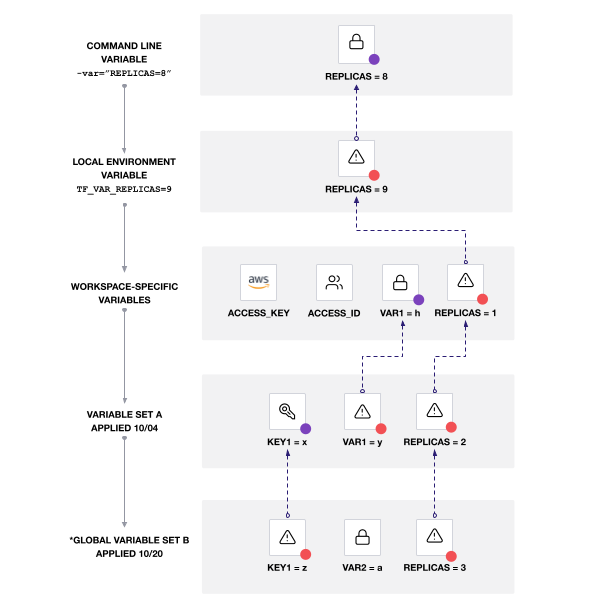
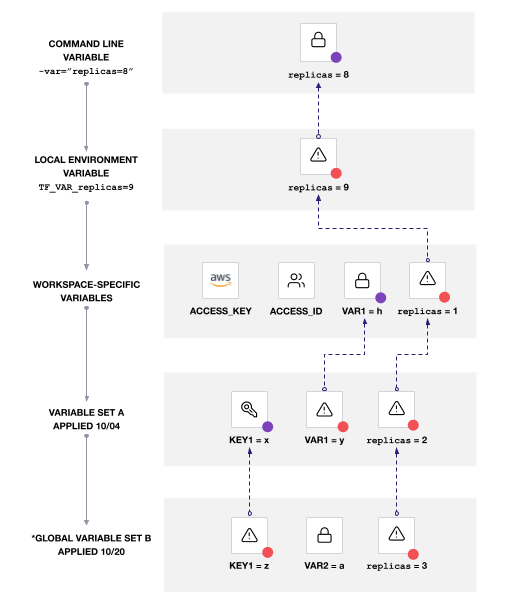
run-specific variable revisions

diff --git a/content/source/docs/cloud/workspaces/variables.html.md b/content/source/docs/cloud/workspaces/variables.html.md
@@ -9,7 +9,7 @@ description: "Terraform Cloud workspace variables let you customize configuratio
 
 Terraform Cloud workspace variables let you customize configurations, modify Terraform's behavior, and store information like provider credentials.
 
-You can set variables specifically for each workspace or you can create variable sets to reuse the same variables across multiple workspaces. For example, you could define a variable set of provider credentials and automatically apply it to all of the workspaces using that provider. Terraform Cloud applies workspace variables to all runs within that workspace. Additionally, you can set variable values for a particular run on the command line [using run-specific variables](/docs/cloud/workspaces/managing-variables.html#run-specific-variables).
+You can set variables specifically for each workspace or you can create variable sets to reuse the same variables across multiple workspaces. For example, you could define a variable set of provider credentials and automatically apply it to all of the workspaces using that provider. You can use the command line to specify variable values for each plan or apply. Otherwise, Terraform Cloud applies workspace variables to all runs within that workspace.
 
 ~> **Note:** Variable sets are in beta.
 
@@ -70,7 +70,7 @@ Each environment and Terraform variable can have one of the following scopes:
 
 | Scope               | Description                                                                        | Resources                                                                                                                                                                                                                                                                                                      |
 |---------------------|------------------------------------------------------------------------------------|----------------------------------------------------------------------------------------------------------------------------------------------------------------------------------------------------------------------------------------------------------------------------------------------------------------|
-| Run-Specific        | Apply to a specific run within a single workspace                                  | [Run-Specific Variables](/docs/cloud/workspaces/managing-variables.html#run-specific-variables)                                                                                                                                                                                                                |
+| Run-Specific        | Apply to a specific run within a single workspace                                  | [Specify Run-Specific Variables](/docs/cloud/workspaces/managing-variables.html#run-specific-variables)                                                                                                                                                                                                        |
 | Workspace-Specific  | Apply to a single workspace                                                        | [Create Workspace-Specific Variables](/docs/cloud/workspaces/managing-variables.html#workspace-specific-variables), [Loading Variables from Files](/docs/cloud/workspaces/managing-variables.html#loading-variables-from-files), [Workspace-Specific Variables API](/docs/cloud/api/workspace-variables.html). |
 | Variable Set        | Apply to multiple workspaces within the same organization.                         | [Create Variable Sets](/docs/cloud/workspaces/managing-variables.html#variable-sets) and [Variable Sets API](/docs/cloud/api/variable-sets.html)                                                                                                                                                               |
 | Global Variable Set | Automatically applied to all current and future workspaces within an organization. | [Create Variable Sets](/docs/cloud/workspaces/managing-variables.html#variable-sets) and [Variable Sets API](/docs/cloud/api/variable-sets.html)                                                                                                                                                               |
@@ -88,11 +88,11 @@ Terraform Cloud prioritizes and overwrites conflicting variables according to th
 
 ### 1. Command line Argument Variables
 
-Variables applied from the command line with either `-var` or `-var-file` overwrite workspace-specific and variable set variables that have the same key.
+When using a CLI workflow, variables applied to a run with either `-var` or `-var-file` overwrite workspace-specific and variable set variables that have the same key.
 
-### 2. TF_VAR_ Prefixed Environment Variables
+### 2. Local Environment Variables Prefixed with `TF_VAR_`
 
-When using a CLI workflow, variables found in the local environment that are prefixed TF_VAR_ followed by the name of a declared variable overwrite workspace-specific, variable set values, and `.auto.tfvars` file values.
+When using a CLI workflow, local environment variables prefixed with `TF_VAR_` (e.g., `TF_VAR_key`) overwrite workspace-specific, variable set, and `.auto.tfvars` file variables that have the same key.
 
 ### 3. Workspace-Specific Variables
 
@@ -110,23 +110,23 @@ Non-global variable sets always take precedence over global variable sets that a
 
 ### 6. `auto.tfvars` Variable Files
 
-Variables in the Terraform Cloud workspace and variables provided through the command line always overwrite variables from files ending in `auto.tfvars` with the same key.
+Variables in the Terraform Cloud workspace and variables provided through the command line always overwrite variables with the same key from files ending in `auto.tfvars`.
 
 ### Precedence Example
 
 Consider an example workspace that has the following variables applied:
 
-| Name           | Scope              | Date Applied | ACCESS_KEY | ACCESS_ID  | VAR1 | KEY1 | VAR2 | REPLICAS |
-|----------------|--------------------|--------------|------------|------------|------|------|------|----------|
-| TF_VAR_foo=8   | Run-Specific       |              |            |            |      |      |      | `8`      |
-| -var="foo=9"   | Run-Specific       |              |            |            |      |      |      | `9`      |
-| Variables      | Workspace-Specific | 10/1         | `g47fh474` | `874hf7u4` | `h`  |      |      | `1`      |
-| Variable Set A | Non-Global         | 10/4         |            |            | `y`  | `x`  |      | `2`      |
-| Variable Set B | Global             | 10/20        |            |            |      | `z`  | `a`  | `3`      |
+| Source                | Scope              | Date Applied | ACCESS_KEY | ACCESS_ID  | VAR1 | KEY1 | VAR2 | replicas |
+|-----------------------|--------------------|--------------|------------|------------|------|------|------|----------|
+| Command line argument | Run-Specific       |              |            |            |      |      |      | `9`      |
+| Local Environment     | Run-Specific       |              |            |            |      |      |      | `8`      |
+| Variables             | Workspace-Specific | 10/1         | `g47fh474` | `874hf7u4` | `h`  |      |      | `1`      |
+| Variable Set A        | Non-Global         | 10/4         |            |            | `y`  | `x`  |      | `2`      |
+| Variable Set B        | Global             | 10/20        |            |            |      | `z`  | `a`  | `3`      |
 
-When you trigger a run, Terraform Cloud applies the following variables:
+When you trigger a run through the command line, Terraform Cloud applies the following variables:
 
-- **Run-Specific:** `foo` is specified in all scopes. The -var value takes precedence over all other values, including the run-specific TF_VAR_foo values.
+- **Run-Specific:** `replicas` from the command line. That means `replicas` equals `9` for this run. Variables set via the command line take precedence over all other values, including the run-specific `TF_VAR_replicas` value set in your local environment.
 
 - **Workspace-Specific:** `ACCESS_KEY`, `ACCESS_ID`, and `VAR1`. That means `VAR1` equals `h` for this run, overwriting the value in Variable Set A.
 

diff --git a/content/source/docs/cloud/workspaces/managing-variables.html.md b/content/source/docs/cloud/workspaces/managing-variables.html.md
@@ -7,7 +7,7 @@ description: "Configure Terraform input variables and environment variables and 
 
 # Managing Variables
 
-You can set variables specifically for each workspace or you can create variable sets to reuse the same variables across multiple workspaces. Refer to the [variables overview](/docs/cloud/workspaces/variables.html) documentation for more information about variable types, scope, and precedence.
+You can set variables specifically for each workspace or you can create variable sets to reuse the same variables across multiple workspaces. Refer to the [variables overview](/docs/cloud/workspaces/variables.html) documentation for more information about variable types, scope, and precedence. You can also set variable values specifically for each run on the command line.
 
 ~> **Note:** Variable sets are in beta.
 
@@ -19,12 +19,18 @@ You need [`read and write variables` permissions](/docs/cloud/users-teams-organi
 
 ## Run-Specific Variables
 
-When using Terraform 1.1 or later, you can set input variable values for a particular plan/apply run on the command line using either of the following mechanisms:
+Terraform 1.1 and later lets you set [Terraform variable](/docs/cloud/workspaces/variables.html#terraform-variables) values for a particular plan or apply on the command line. These variable values will overwrite workspace-specific and variable set variables with the same key. Refer to the [variable precedence](/docs/cloud/workspaces/variables.html#precedence) documentation for more details.
 
-* Specifying `-var` and `-var-file` arguments
-* Local environment variables named `TF_VAR_` followed by the name of a declared variable
+You can set run-specific Terraform variable values by:
 
-Variable values set in either of these ways will take precedence over Workspace-Specific and Variable Set values. See the [Precedence](/docs/cloud/workspaces/variables.html#precedence) section for more details. For more information about specifying CLI input variable values, see the Terraform documentation for [Variables on the Command Line](https://www.terraform.io/docs/language/values/variables.html#variables-on-the-command-line) or the plan command [Input Variables on the Command Line](https://www.terraform.io/docs/cli/commands/plan.html#input-variables-on-the-command-line).
+- Specifying `-var` and `-var-file` arguments. For example:
+
+    ```
+    terraform apply -var="key=value" -var-file="testing.tfvars"
+    ```
+- Creating local environment variables prefixed with `TF_VAR_`. For example, if you declare a variable called `replicas` in your configuration, you could create a local environment variable called `TF_VAR_replicas` and set it to a particular value. When you use the [CLI Workflow](/docs/cloud/run/cli.html), Terraform automatically identifies these environment variables and applies their values to the run.
+
+Refer to the [variables on the command line](https://www.terraform.io/docs/language/values/variables.html#variables-on-the-command-line) documentation for more details and examples.
 
 ## Workspace-Specific Variables
 
@@ -68,7 +74,9 @@ To delete a variable:
 
 ## Loading Variables from Files
 
-You can set variable values by providing any number of [files ending in `.auto.tfvars`](/docs/language/values/variables.html#variable-files) to workspaces that use Terraform 0.10.0 or later. When you trigger a run, Terraform automatically loads and uses the variables defined in these files. You can only do this with files ending in `auto.tfvars`; Terraform Cloud does not recognize other types of `.tfvars` files. If any variable from the workspace has the same key as a variable in the file, the workspace variable overwrites variable from the file.
+You can set [Terraform variable](/docs/cloud/workspaces/variables.html#terraform-variables) values by providing any number of [files ending in `.auto.tfvars`](/docs/language/values/variables.html#variable-files) to workspaces that use Terraform 0.10.0 or later. When you trigger a run, Terraform automatically loads and uses the variables defined in these files. If any variable from the workspace has the same key as a variable in the file, the workspace variable overwrites variable from the file.
+
+You can only do this with files ending in `auto.tfvars`; Terraform Cloud does not automatically recognize other types of `.tfvars` files. You can only apply other types of `.tfvars` files [on the command line](#run-specific-variables) for each run.
 
 ~> **Note:** Terraform Cloud loads variables from files for each Terraform run, but does not automatically persist those variables to the Terraform Cloud workspace or display them in the **Variables** section of the workspace UI.
 
